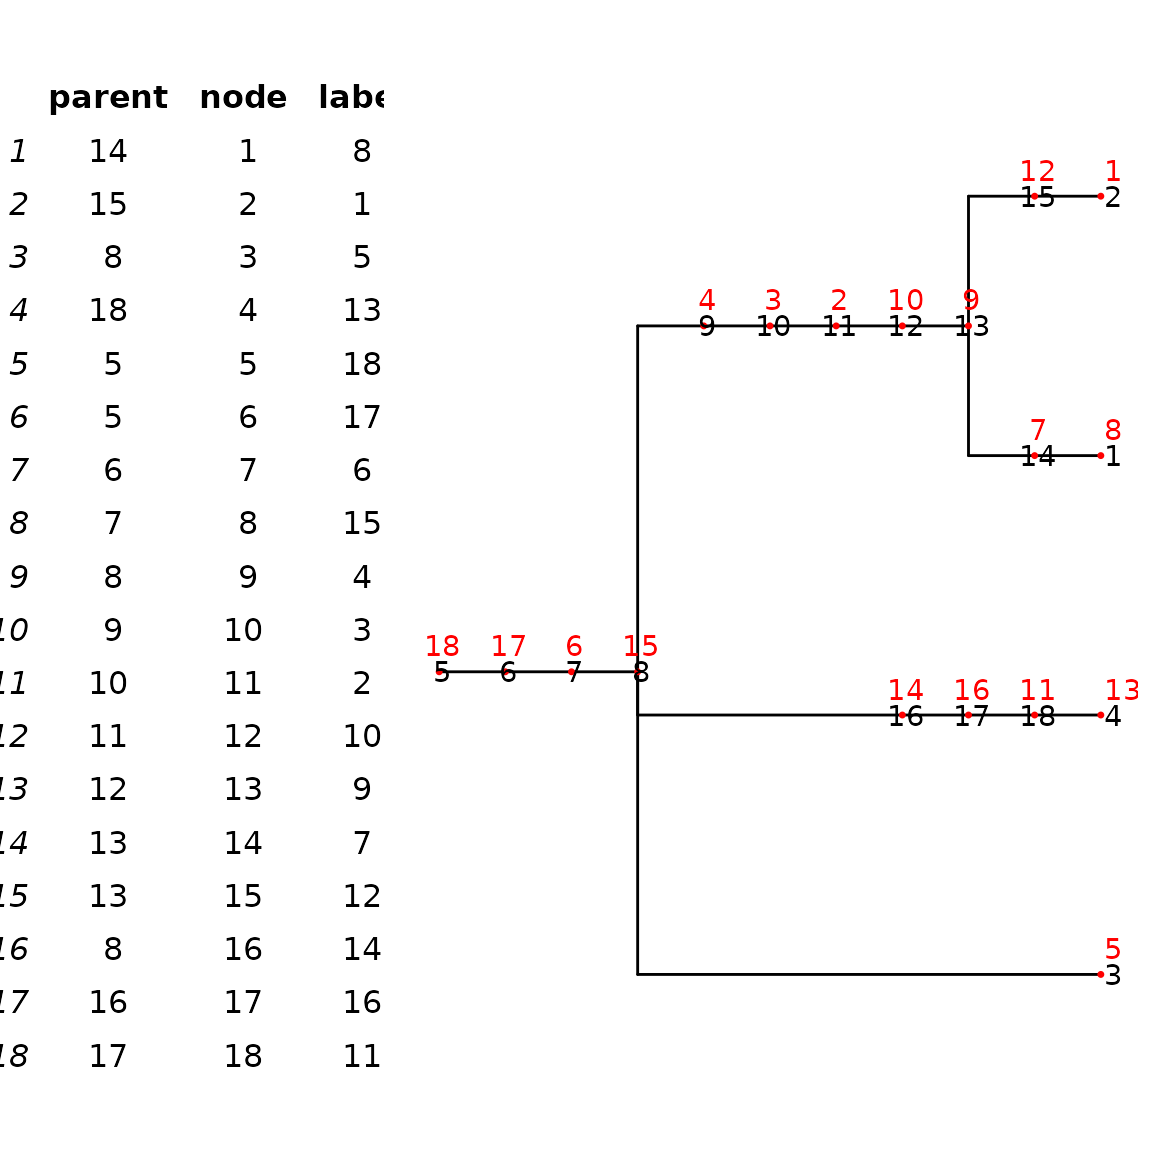
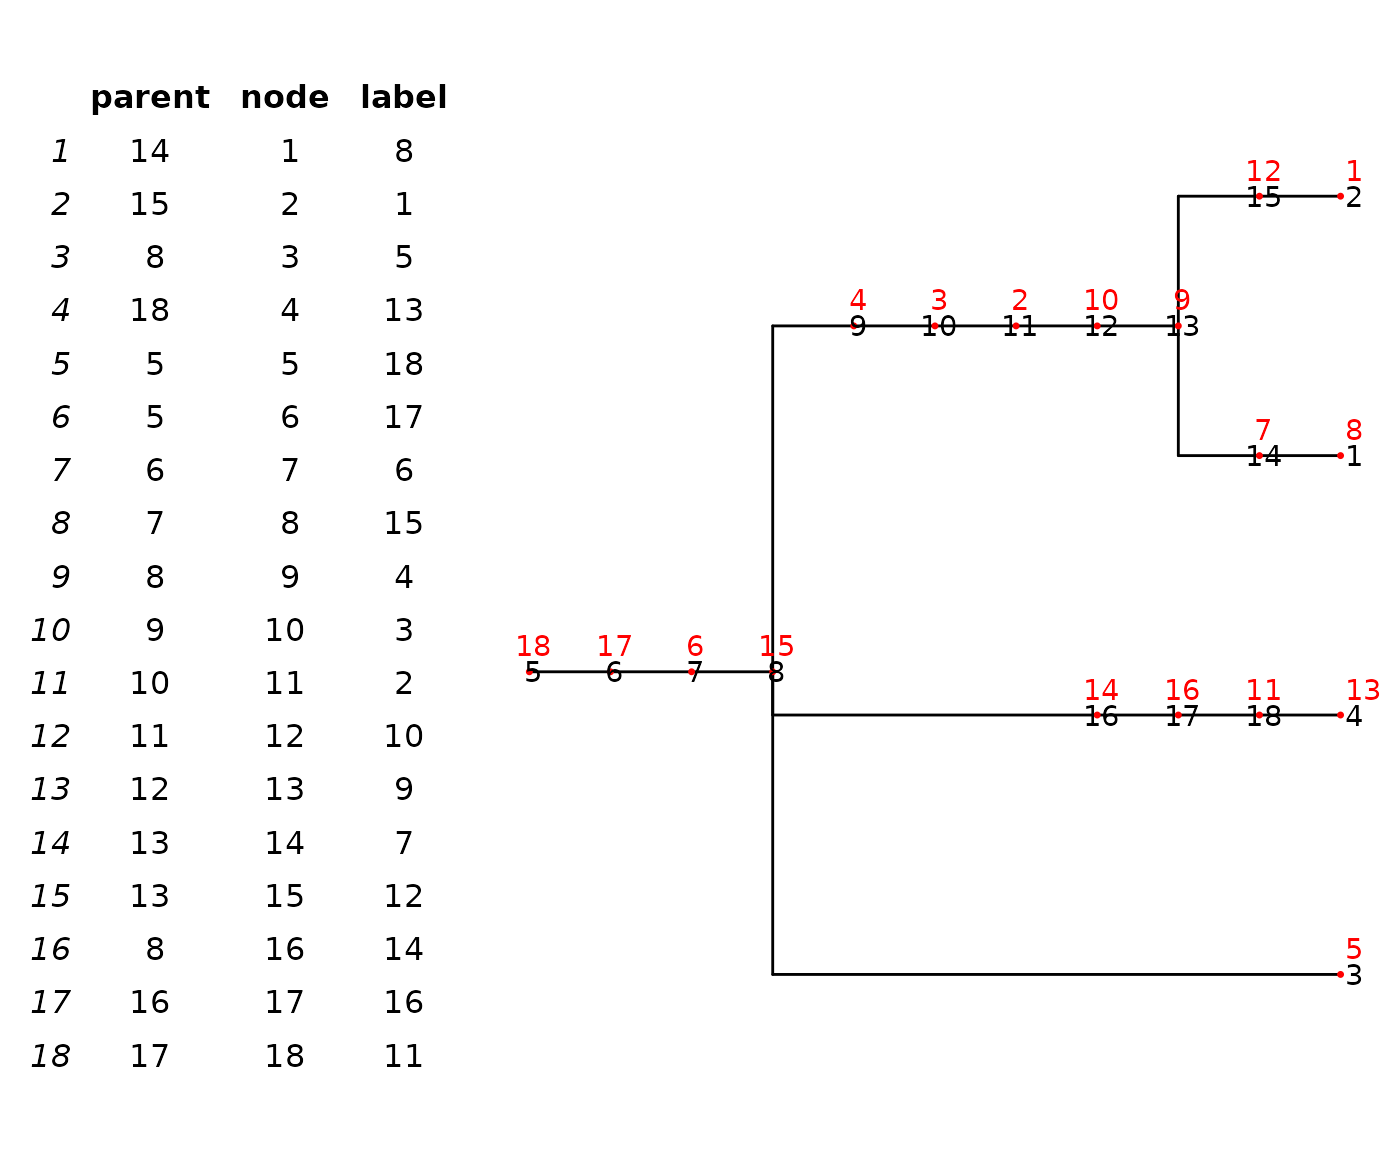
Deploying to gh-pages from @ xiayh17/converTree@aaf2114b51a4e0a3666b5a4ff9aed114e534a89d 🚀

diff --git a/reference/stack_mutationTree.html b/reference/stack_mutationTree.html
@@ -110,11 +110,9 @@ node in a mutation tree of class "phylo".</p>
 <span class="r-msg co"><span class="r-pr">#&gt;</span> G Yu. Data Integration, Manipulation and Visualization of Phylogenetic</span>
 <span class="r-msg co"><span class="r-pr">#&gt;</span> Trees (1st ed.). Chapman and Hall/CRC. 2022. ISBN: 9781032233574</span>
 <span class="r-msg co"><span class="r-pr">#&gt;</span> </span>
-<span class="r-msg co"><span class="r-pr">#&gt;</span> LG Wang, TTY Lam, S Xu, Z Dai, L Zhou, T Feng, P Guo, CW Dunn, BR</span>
-<span class="r-msg co"><span class="r-pr">#&gt;</span> Jones, T Bradley, H Zhu, Y Guan, Y Jiang, G Yu. treeio: an R package</span>
-<span class="r-msg co"><span class="r-pr">#&gt;</span> for phylogenetic tree input and output with richly annotated and</span>
-<span class="r-msg co"><span class="r-pr">#&gt;</span> associated data. Molecular Biology and Evolution. 2020, 37(2):599-603.</span>
-<span class="r-msg co"><span class="r-pr">#&gt;</span> doi: 10.1093/molbev/msz240 </span>
+<span class="r-msg co"><span class="r-pr">#&gt;</span> Guangchuang Yu. Using ggtree to visualize data on tree-like structures.</span>
+<span class="r-msg co"><span class="r-pr">#&gt;</span> Current Protocols in Bioinformatics. 2020, 69:e96. doi:10.1002/cpbi.96</span>
+<span class="r-msg co"><span class="r-pr">#&gt;</span> </span>
 <span class="r-in"><span class="va">nwk_text</span> <span class="op">=</span> <span class="st">"((((((((((8)7,(1)12)9)10)2)4)3,5,(((17)11)16)14)15)6)13)18;"</span></span>
 <span class="r-in"><span class="va">tre</span> <span class="op">&lt;-</span> <span class="fu">treeio</span><span class="fu">::</span><span class="fu"><a href="https://docs.ropensci.org/treeio/reference/read.newick.html" class="external-link">read.newick</a></span><span class="op">(</span>text <span class="op">=</span> <span class="va">nwk_text</span><span class="op">)</span></span>
 <span class="r-in"><span class="fu"><a href="https://rdrr.io/pkg/ggtree/man/ggtree.html" class="external-link">ggtree</a></span><span class="op">(</span><span class="va">tre</span><span class="op">)</span> <span class="op">+</span></span>

diff --git a/articles/Stack_Mutation_Principle.html b/articles/Stack_Mutation_Principle.html
@@ -135,7 +135,7 @@
 <span class="va">tre_table</span> <span class="op">&lt;-</span> <span class="fu">gridExtra</span><span class="fu">::</span><span class="fu"><a href="https://rdrr.io/pkg/gridExtra/man/tableGrob.html" class="external-link">tableGrob</a></span><span class="op">(</span><span class="va">tre_dat</span>, theme <span class="op">=</span> <span class="fu"><a href="https://rdrr.io/pkg/gridExtra/man/tableGrob.html" class="external-link">ttheme_minimal</a></span><span class="op">(</span><span class="op">)</span><span class="op">)</span>
 <span class="fu">gridExtra</span><span class="fu">::</span><span class="fu"><a href="https://rdrr.io/pkg/gridExtra/man/arrangeGrob.html" class="external-link">grid.arrange</a></span><span class="op">(</span><span class="va">tre_table</span>, <span class="va">mtr</span>, nrow <span class="op">=</span> <span class="fl">1</span>,widths <span class="op">=</span> <span class="fu"><a href="https://rdrr.io/r/base/c.html" class="external-link">c</a></span><span class="op">(</span><span class="fl">1</span>,<span class="fl">2</span><span class="op">)</span><span class="op">)</span></code></pre></div>
 <div class="figure" style="text-align: center">
-<img src="Stack_Mutation_Principle_files/figure-html/unnamed-chunk-4-1.png" alt="Mutation Tree" width="576"><p class="caption">
+<img src="Stack_Mutation_Principle_files/figure-html/unnamed-chunk-4-1.png" alt="Mutation Tree" width="700"><p class="caption">
 Mutation Tree
 </p>
 </div>
